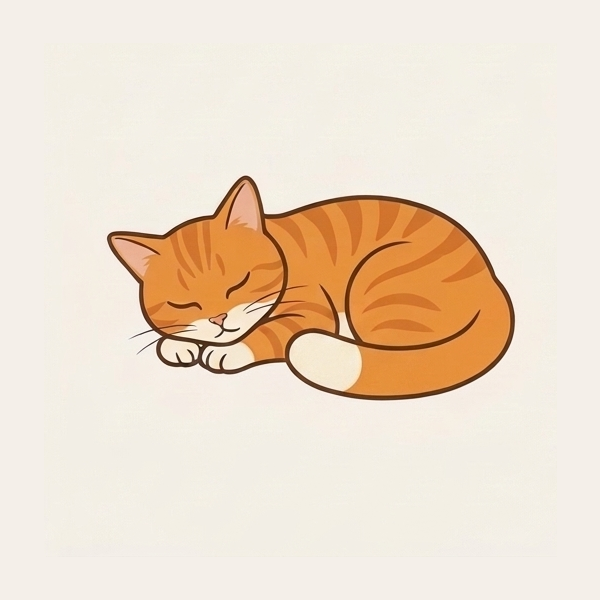
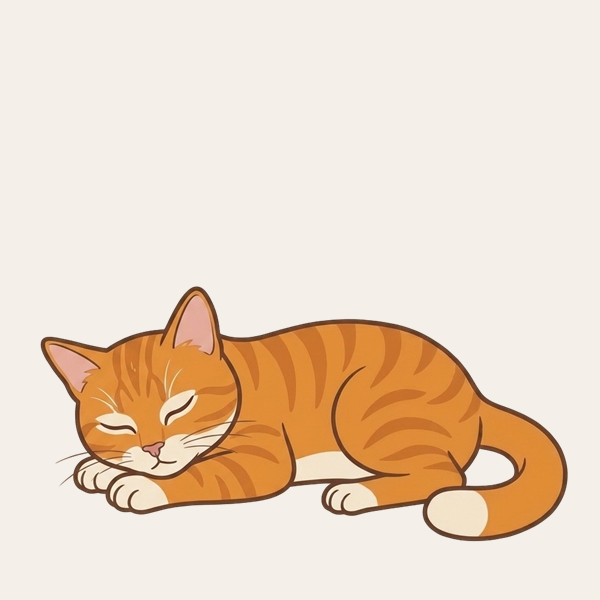
feat(pet): freeze v2 masters derived from standing anchor pose
Deriving lying and drag from the locked standing anchor pose, then
deriving sleeping from lying, preserves identical head geometry,
horizontal front-leg tabby bands, hind-thigh curves, and white-tipped
tails across all four masters while making lying-to-sleeping transitions
nearly zero-drift for Phase 3 I2V production. Enclosed tail-loop holes
in lying and sleeping are cleanly matted and defringed to #5F3417.

diff --git a/docs/pet-video-prompts.md b/docs/pet-video-prompts.md
@@ -11,20 +11,35 @@
 | 资产 | 路径 | 规格与对齐 | 用途 |
 | --- | --- | --- | --- |
 | 角色风格母版 | `docs/images/pet/v2-masters/style-sheet.png` | 脸部特写 + 3/4 站姿标尺 + Hex 色板 + 描边线宽样本 + 四母姿同尺排布 | 角色身份、配色、线宽唯一依据 |
-| 四母姿同画布原图 | `docs/images/pet/v2-masters/raw/master-4poses-sheet-raw.png` | `1024×1024` 单画布 `2×2` 同批联合生成原图（暖米白纯底 `#F4EFE9`） | 4 张母姿的唯一源画布，确保头身比、线宽与尾巴完全同尺同源 |
-| 母姿 B：趴姿 | `docs/images/pet/v2-masters/master-lying.png` | `400×400` 8-bit RGBA · `anchor: { x: 200, y: 360 }` · `scale=0.720`（`332×173`） | `lying-idle` / `blink` / `react` 底图；`stretch` 首帧、`wake` 末帧、`sleep-in` 首帧 |
-| 母姿 A：站姿 | `docs/images/pet/v2-masters/master-standing.png` | `400×400` 8-bit RGBA · `anchor: { x: 200, y: 360 }` · `scale=0.720`（`326×250`） | 静止四足站立（前后双腿各自并拢，非迈腿态）；`stretch` 末帧、`walk` 首帧、`jump` 起止基准 |
-| 母姿 C：熟睡 | `docs/images/pet/v2-masters/master-sleeping.png` | `400×400` 8-bit RGBA · `anchor: { x: 200, y: 360 }` · `scale=0.720`（`294×162`） | `sleep` 底图；`sleep-in` 末帧、`wake` 首帧 |
-| 独立态：拎起 | `docs/images/pet/v2-masters/master-drag.png` | `400×400` 8-bit RGBA · `anchor: { x: 200, y: 360 }` · `scale=0.720`（`294×253`） | `drag` 循环底图 |
-| 单态切片原图 | `docs/images/pet/v2-masters/raw/master-{lying,standing,sleeping,drag}-raw.png` | 从同画布原图无损切分的 `600×600` 纯底单姿原图 | L1/L2/L3 模型输入原图（导出统一乘 `0.720`） |
+| 四母姿总览原图 | `docs/images/pet/v2-masters/raw/master-4poses-sheet-raw.png` | `1200×1200` `2×2` 归一化合图（基于「静止站姿单图 → 趴姿/拎起 → 趴姿推熟睡」链式派生，统一 `#F4EFE9` 纯底） | 4 张母姿统一标尺与花纹核对总览 |
+| 母姿 B：趴姿 | `docs/images/pet/v2-masters/master-lying.png` | `400×400` 8-bit RGBA · `anchor: { x: 200, y: 360 }` · 统一标尺 `0.700@600`（`354×217`） | `lying-idle` / `blink` / `react` 底图；`stretch` 首帧、`wake` 末帧、`sleep-in` 首帧 |
+| 母姿 A：站姿 | `docs/images/pet/v2-masters/master-standing.png` | `400×400` 8-bit RGBA · `anchor: { x: 200, y: 360 }` · 统一标尺 `0.700@600`（`333×244`） | 静止四足站立唯一锚点（前后双腿各自并拢、前腿横纹清晰一致）；`stretch` 末帧、`walk` 首帧、`jump` 起止基准 |
+| 母姿 C：熟睡 | `docs/images/pet/v2-masters/master-sleeping.png` | `400×400` 8-bit RGBA · `anchor: { x: 200, y: 360 }` · 统一标尺 `0.700@600`（`352×171`） | 由趴姿直接低头闭眼派生（躯干与绕侧尾 100% 咬合）；`sleep` 底图、`sleep-in` 末帧、`wake` 首帧 |
+| 独立态：拎起 | `docs/images/pet/v2-masters/master-drag.png` | `400×400` 8-bit RGBA · `anchor: { x: 200, y: 360 }` · 统一标尺 `0.700@600`（`332×252`） | `drag` 循环底图 |
+| 单态切片原图 | `docs/images/pet/v2-masters/raw/master-{lying,standing,sleeping,drag}-raw.png` | 去背归一化至 `#F4EFE9` 纯底的 `600×600` 单姿原图（与 `400×400` 严格 `1.5×` 对应，`anchor: 300,540`） | L1/L2/L3 模型输入原图（导出统一乘 `2/3 ≈ 0.667`） |
 | 审片图 | `docs/images/pet/v2-masters/onion-skin-masters.png`、`preview-light-dark-200dip.png` | `tools/verify-pet-pack.ps1` 渲染输出 | 四母姿洋葱皮重叠校验 + 浅/深色 200 DIP 边缘校验 |
 
 **冻结色板与物理标尺**：
-- 轮廓深棕 `#5C3B22`（圆角连接；`400×400` 导出 **`~3.0 px`** → `200 DIP` 运行时 `~1.5 px`）；主毛暖橘 `#F19C45`；虎斑深橘 `#DF8232`（用于额头/背部/四肢，**不单独描边**）；奶油白 `#F8EDD9`（口鼻/胸腹/白爪/饱满圆白尖尾）；耳廓粉 `#F3BDA0`；粉鼻 `#E28C7A`；琥珀虹膜 `#D88A28`（竖瞳 `#3A2210` + 白色高光）；参考画布底色 `#F4EFE9`（仅生成用，运行时透明）。
-- **物理标尺（`400×400` 实测自 `master-standing.png`）**：头宽 **`98 px`**、躯干长（胸前至臀后不含尾）**`~225 px`**（全长含头约 3.3 头身）、肩背高（距地面线 `y=360`）**`180 px`**。四张母姿来自同一张 `2×2` 联合生成原图，导出统一使用**单一缩放系数 `0.720`**（`maxY = 359–360`，底边留 `40 px` 余量；质心 `x = 199.6–200.5`；`foot_dy = 0 px`）。不同姿势的躯干伸展度与尾巴透视长度随姿态自然变化，**不强制拉齐外接框尺寸**，也**禁止**按含尾巴包围盒单独缩放单帧。
-- **尾巴一致性标准（v2 冻结）**：采用**干净饱满的纯暖橘（`#F19C45`）毛绒尾 + 饱满圆润奶油白尖（`#F8EDD9`）**，**彻底去掉尾巴上“一圈一圈”的高对比深色环纹**；既根治跨蜷曲/站立/拎起姿态的数圈与粗细漂移，也避免 Phase 3 I2V 视频生成出现尾纹闪烁。视觉长短随姿势自然透视，不强行统一成单一像素长度。
+- 轮廓深棕 `#5F3417`（圆角连接；`400×400` 导出 **`3.0 px`** → `200 DIP` 运行时 `~1.5 px`）；主毛暖橘 `#E69342`；虎斑深橘 `#D27831`（额头/脸颊/背部/体侧竖纹 + **双前腿清晰横纹** + 后大腿弧纹，**不单独描边**）；奶油白 `#F8E9D1`（口鼻/锯齿边白胸口/白腹缘/短白爪/圆润白尖尾）；耳廓粉 `#E8AE95`；粉鼻 `#D0967A`；琥珀虹膜 `#D88A28`（竖瞳 `#3A2210` + 白色高光）；参考画布底色 `#F4EFE9`（仅生成用，运行时透明）。保留精细浅淡胡须与额头小白眉线。
+- **物理标尺（`400×400` 实测自 `master-standing.png`）**：头宽 **`~93 px`**、躯干长（胸前至臀后不含尾）**`~218 px`**（自然 3–3.5 头身）、肩背高（距地面线 `y=360`）**`~177 px`**（含耳总高 `243 px`）。四张母姿统一按 `600×600` 归一化画布乘 **`0.700`**（`1024×1024` 派生图乘 `0.700 × 600 / 1024 = 0.41016`）导出：`maxY = 360`（底边留 `40 px` 余量、`foot_dy = 0 px`），质心 `x = 199.63–200.43`。`lying` 与 `sleeping` 的绕尾封闭孔洞已完全抠透并去边至 `#5F3417`，浅/深色背景零底色残留。
+- **尾巴与四肢花纹一致性标准（v2 冻结）**：采用**纯暖橘（`#E69342`）毛绒尾 + 圆润奶油白尖（`#F8E9D1`）**，**彻底去掉尾巴上“一圈一圈”的高对比深色环纹**；双前腿保持清晰统一的横向虎斑环纹、后大腿保持弧形条纹。
 
-### 2. L1 局部编辑模板（`lying-idle` / `blink` / `sleep` / `react` / `drag`）
+### 2. 「1 推 3」母姿链式派生模板（`Standing → Lying / Drag`；`Lying → Sleeping`）
+
+- **最佳实践**：先锁定 1 张全身花纹完全展开的 **静止站姿（`standing`）** 单图，以「1 图推 1 图 + 精简正向自然语言」分别推出 `lying` 与 `drag`；再以 `lying` 为基底轻垂头部闭眼推出 `sleeping`（避免从 `standing` 直接硬跳 `sleeping` 导致脸型和头身比漂移，同时让 `sleep-in` / `wake` 过渡躯干零跳变）。
+
+```text
+# Standing -> Lying
+Redraw this exact orange tabby cat lying comfortably on its belly facing left in 3/4 view, at the same scale and centered on the same plain #F4EFE9 background. Keep the exact same face, half-lidded amber eyes, thin whiskers, bold dark-brown outline, flat cel color style, white chest, short white paws, horizontal front-leg tabby bands, hind-thigh stripes, and solid warm-orange tail with a rounded cream-white tip. Both front legs stretch neatly forward on the ground, hind legs are tucked beside the body, and the tail curls smoothly beside the hip. Clean isolated sprite with no ground shadow.
+
+# Standing -> Drag
+Redraw this exact orange tabby cat floating gently in mid-air as if lifted softly from the upper back by an invisible force, facing left in 3/4 view, at the same scale and centered on the same plain #F4EFE9 background. Keep the exact same face, calm half-lidded amber eyes, thin whiskers, bold dark-brown outline, flat cel color style, white chest, short white paws, horizontal front-leg tabby bands, hind-thigh stripes, and solid warm-orange tail with a rounded cream-white tip. The back is gently arched, all four legs and the tail dangle loosely downward, with nothing touching or holding the cat. Clean isolated sprite with no ground shadow.
+
+# Lying -> Sleeping
+Edit this exact orange tabby cat from the reference image into a peaceful sleeping pose, keeping the exact same cat identity, head size, slender 3/4 side-profile head shape, and camera scale on the same plain #F4EFE9 background. Keep the same body mass and tucked resting silhouette, simply lowering the head gently down to rest its chin and cheek on its tucked front white paws while curling the body slightly tighter. Keep both eyes smoothly closed into thin gentle dark-brown curved lines, ears softly relaxed with pale pink inner ears, the exact same small pink nose and calm closed mouth (not a wide cartoon smile), the exact same faint ultra-thin whiskers (not thick black lines), forehead white eyebrow markings, bold dark-brown outline, flat cel colors, tabby stripes, short white paws, and the solid warm-orange tail with a rounded cream-white tip resting smoothly beside the body. Clean isolated sprite with no ground shadow and no Zzz symbols.
+```
+
+### 3. L1 局部编辑模板（`lying-idle` / `blink` / `sleep` / `react` / `drag`）
 
 - **适用状态**：`lying-idle`、`blink`、`sleep`、`react`、`drag`（幅度小、躯干与外轮廓必须保持静态零偏移）。
 - **输入**：对应冻结母姿的切片原图（`docs/images/pet/v2-masters/raw/master-{lying,standing,sleeping,drag}-raw.png`，`600×600` 纯 `#F4EFE9` 底）。
@@ -34,7 +49,7 @@
 Edit ONLY the specified local region of the provided 2D flat hand-drawn illustration of the orange tabby cat.
 
 STRICT LOCKS (DO NOT CHANGE):
-- Keep the exact same character identity, 3-3.5 head body proportions, body silhouette, torso position, head size, camera framing, bold uniform dark-brown outline (#5C3B22), flat color palette (#F19C45 orange fur, #DF8232 un-outlined tabby stripes on forehead/back/legs only, plush solid warm-orange tail #F19C45 with NO dark stacked rings and a plump rounded cream-white tip #F8EDD9, #F8EDD9 white muzzle/chest/belly/paws, #E28C7A pink nose, #D88A28 amber iris), and plain solid uniform warm off-white background (#F4EFE9).
+- Keep the exact same character identity, 3-3.5 head body proportions, body silhouette, torso position, head size, camera framing, bold uniform dark-brown outline (#5F3417), flat color palette (#E69342 orange fur, #D27831 un-outlined tabby stripes on forehead/back/flanks, horizontal front-leg bands, and hind-thigh stripes, plush solid warm-orange tail #E69342 with NO dark stacked rings and a rounded cream-white tip #F8E9D1, #F8E9D1 white muzzle/chest/belly/short white paws, #D0967A pink nose, #D88A28 amber iris, faint thin whiskers), and plain solid uniform warm off-white background (#F4EFE9).
 - Do NOT shift, scale, rotate, or redraw the unedited body, paws, or outer contour.
 - Do NOT add fur strands, gradients, 3D shading, ground shadows, props, text, or watermarks.
 
@@ -49,17 +64,17 @@ LOCAL EDIT ONLY:
 >
 ```
 
-### 3. L2 首尾帧过渡 I2V 模板（`stretch` / `sleep-in` / `wake` / `jump`）
+### 4. L2 首尾帧过渡 I2V 模板（`stretch` / `sleep-in` / `wake` / `jump`）
 
 - **适用状态**：`stretch`（`master-lying` → `master-standing`）、`sleep-in`（`master-lying` → `master-sleeping`）、`wake`（`master-sleeping` → `master-lying`）、`jump`（`master-standing` → 垂直轻跳 → `master-standing`）。
 - **生成参数**：Image-to-Video（First + Last Frame Lock），1:1（`768×768` 或 `1024×1024`），`24 fps`，`2–3 s`，非循环。
-- **抽帧与后处理硬门**：均匀抽取 **6–8 帧**（运行时 `10–12 fps`，即 `83–100 ms/帧`）；整段使用**单一缩放系数**与**统一抠像去边（defringe 至 `#5C3B22`）**对齐至 `anchor: { x: 200, y: 360 }`；过 `tools/verify-pet-pack.ps1` 连续性硬门（相邻帧质心突跳 `<= 6 px`、包围盒缩放变化 `<= 5%`）。
+- **抽帧与后处理硬门**：均匀抽取 **6–8 帧**（运行时 `10–12 fps`，即 `83–100 ms/帧`）；整段使用**单一缩放系数**与**统一抠像去边（defringe 至 `#5F3417`）**对齐至 `anchor: { x: 200, y: 360 }`；过 `tools/verify-pet-pack.ps1` 连续性硬门（相邻帧质心突跳 `<= 6 px`、包围盒缩放变化 `<= 5%`）。
 
 ```text
 Animate a smooth, natural 2D hand-drawn frame-by-frame transition between the locked start frame and the locked end frame of this exact orange tabby cat.
 
 STRICT STYLE & CAMERA LOCKS:
-- Preserve the exact same character design, 3-3.5 head body proportions, almond half-lidded amber eyes, pink nose, white muzzle/chest/belly/paws, plush solid warm-orange tail (#F19C45, NO dark stacked rings on the tail) with a plump rounded cream-white tip (#F8EDD9), bold uniform dark-brown outline (#5C3B22), un-outlined tabby stripes (#DF8232) on forehead/back/legs only, and flat warm 2D illustration style.
+- Preserve the exact same character design, 3-3.5 head body proportions, almond half-lidded amber eyes, pink nose, faint thin whiskers, white muzzle/chest/belly/short white paws, plush solid warm-orange tail (#E69342, NO dark stacked rings on the tail) with a rounded cream-white tip (#F8E9D1), bold uniform dark-brown outline (#5F3417), un-outlined tabby stripes (#D27831) including consistent horizontal front-leg bands and hind-thigh stripes, and flat warm 2D illustration style.
 - Do NOT restyle, do not add 3D depth, fur texture, gradients, soft glow, or photorealism.
 - Locked static camera: zero zoom, zero pan, zero tilt, zero camera shake.
 - Plain solid uniform warm off-white background (#F4EFE9) throughout every frame.
@@ -68,16 +83,16 @@ STRICT STYLE & CAMERA LOCKS:
 MOTION (IN PLACE, NO HORIZONTAL DRIFT):
 <REPLACE_WITH_TRANSITION:
   - stretch (lying -> standing): The cat smoothly pushes up from the lying pose into a brief natural feline back-arch/front-paw stretch, then settles cleanly into the exact locked neutral four-paw standing end frame in place.
-  - sleep-in (lying -> sleeping): The cat smoothly lowers its head onto its front paws, gently folds its ears slightly, closes its eyes, and tucks its body snugly into the exact locked curled sleeping end frame in place.
+  - sleep-in (lying -> sleeping): The cat smoothly lowers its head onto its front paws, gently folds its ears slightly, closes its eyes, and settles snugly into the exact locked sleeping end frame in place.
   - wake (sleeping -> lying): The cat smoothly lifts its head from its paws, perks its ears back up, opens its almond half-lidded amber eyes, and settles into the exact locked lying end frame in place.
   - jump (standing -> standing): The cat performs a small vertical hop in place — brief crouch anticipation, push-off with all four white paws tucked cleanly off the ground, short airborne apex, soft landing back onto the exact locked four-paw standing end frame. No forward translation.
 >
 ```
 
-### 4. L3 固定机位走路 I2V 模板（`walk`）
+### 5. L3 固定机位走路 I2V 模板（`walk`）
 
 - **适用状态**：`walk`（全身连续循环；只需面向左侧的单向循环，向右由运行时水平镜像）。
-- **输入**：首帧锁定 `docs/images/pet/v2-masters/raw/master-standing-raw.png`（静止四足站姿，确保起手比例与白尖尾 100% 对齐），步态节奏参考 `docs/images/pet/references/walk-reference.gif`。
+- **输入**：首帧锁定 `docs/images/pet/v2-masters/raw/master-standing-raw.png`（静止四足站姿，确保起手比例、前腿横纹与白尖尾 100% 对齐），步态节奏参考 `docs/images/pet/references/walk-reference.gif`。
 - **生成参数**：Reference / Image-to-Video，固定机位，`3–5 s`，`24 fps`，纯 `#F4EFE9` 底。
 - **抽帧与后处理硬门**：选取 1 个完整左右交替步态周期，抽取 **16–20 帧**（运行时 `18–24 fps`，即 `42–56 ms/帧`，按页面移速 `~103 DIP/s` 匹配步幅不滑步）；整段采用**单一裁切与单一缩放系数**，统一去边对齐至 `anchor: { x: 200, y: 360 }`；通过 `tools/verify-pet-pack.ps1` 连续性硬门（相邻帧质心突跳 `<= 6 px`、包围盒缩放变化 `<= 5%`）。
 
@@ -85,7 +100,7 @@ MOTION (IN PLACE, NO HORIZONTAL DRIFT):
 Animate the provided 2D flat hand-drawn illustration of the orange tabby cat (starting from the locked neutral standing pose) into a smooth, seamless in-place walk cycle facing left.
 
 STRICT STYLE & CAMERA LOCKS:
-- Keep the exact same character identity, 3-3.5 head body proportions, face, almond half-lidded amber eyes, pink nose, white muzzle/chest/belly/paws, plush solid warm-orange tail (#F19C45, NO dark stacked rings on the tail) with a plump rounded cream-white tip (#F8EDD9), bold uniform dark-brown outline (#5C3B22), un-outlined tabby stripes (#DF8232) on forehead/back/legs only, and flat warm 2D illustration style.
+- Keep the exact same character identity, 3-3.5 head body proportions, face, almond half-lidded amber eyes, pink nose, faint thin whiskers, white muzzle/chest/belly/short white paws, plush solid warm-orange tail (#E69342, NO dark stacked rings on the tail) with a rounded cream-white tip (#F8E9D1), bold uniform dark-brown outline (#5F3417), un-outlined tabby stripes (#D27831) including consistent horizontal front-leg bands and hind-thigh stripes, and flat warm 2D illustration style.
 - Do NOT restyle, do not make it 3D, do not add fur strands, gradients, shading flicker, or photorealism.
 - Locked static camera: zero zoom, zero pan, zero tilt; plain solid uniform warm off-white background (#F4EFE9).
 - Full body visible in left-facing 3/4 side view, all four white paws clearly visible and never cropped.
